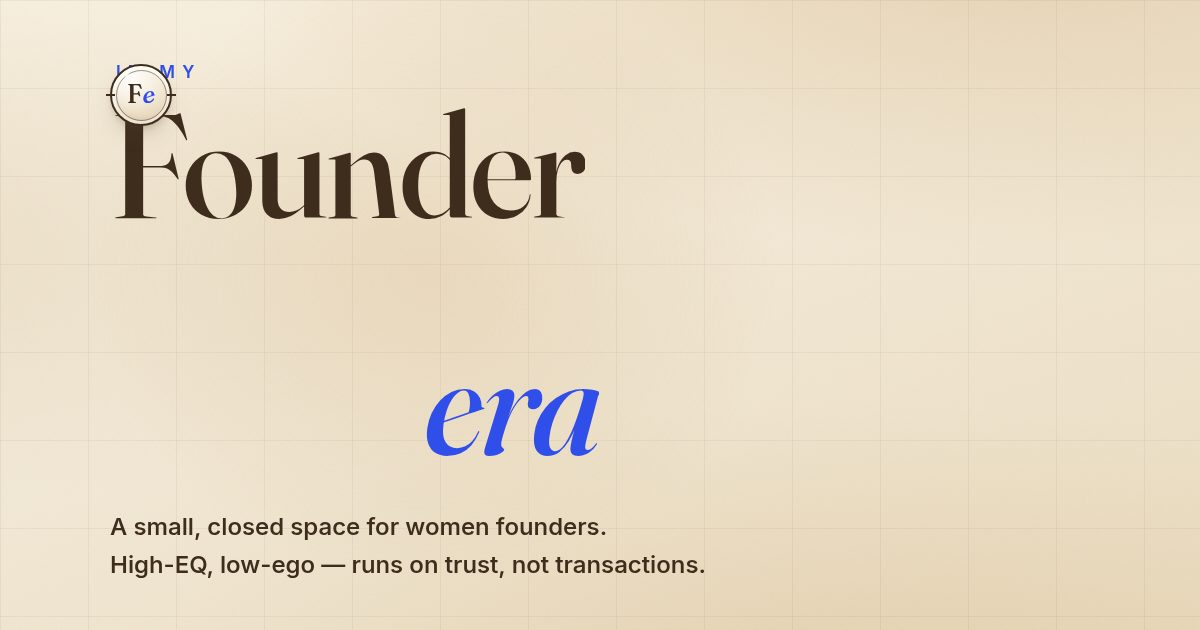
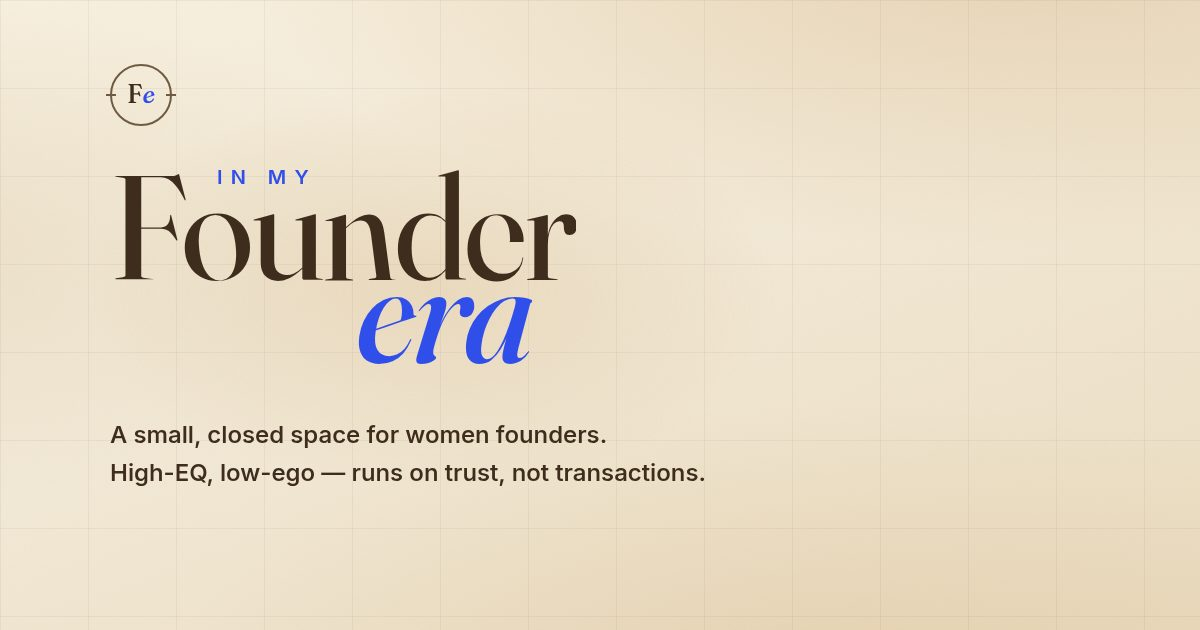
Brand v2: nested IN MY lockup, open single-ring Fe seal, Canela/Söhne type stacks with tuned stand-ins
Claude-Session: https://claude.ai/code/session_01Cy39zSLxnnrD6oEm9QNAfa

Changed region(s): [[0.0925, 0.0905, 0.5858, 0.7841], [0.0925, 0.8143, 0.5858, 0.9349]]

diff --git a/styles.css b/styles.css
@@ -38,8 +38,10 @@
   --cobalt: #304EE9;
   --cobalt-deep: #2440D6;
   --cobalt-soft: rgba(48, 78, 233, 0.14);
-  --serif: 'Fraunces', 'Iowan Old Style', Georgia, serif;
-  --sans: 'Inter', -apple-system, 'Segoe UI', sans-serif;
+  /* Brand type: Canela Display/Italic + Söhne (licensed) — Fraunces/Inter
+     ship as tuned stand-ins and yield automatically if Canela/Söhne load */
+  --serif: 'Canela', 'Canela Deck', 'Fraunces', 'Iowan Old Style', Georgia, serif;
+  --sans: 'Söhne', 'Sohne', 'Inter', -apple-system, 'Segoe UI', sans-serif;
   --radius: 14px;
 }
 
@@ -120,52 +122,19 @@ body.is-done .scene-espresso { opacity: 1; }
   z-index: 10;
   width: 46px;
   height: 46px;
-  border: 1.5px solid var(--espresso);
+  /* open seal: single thin ring on the page itself, per the brand board */
+  border: 1.5px solid #6E5B41;
   border-radius: 50%;
   display: flex;
   align-items: center;
   justify-content: center;
   text-decoration: none;
-  /* enamel-seal finish: warm off-white, raised near the ring, dished center */
-  background:
-    radial-gradient(120% 120% at 32% 24%, rgba(255, 255, 255, 0.85), rgba(255, 255, 255, 0) 50%),
-    linear-gradient(170deg, #F9F3E3 0%, #EAD9BE 100%);
-  box-shadow:
-    0 12px 24px -12px rgba(93, 69, 44, 0.5),
-    0 3px 7px -3px rgba(93, 69, 44, 0.25),
-    inset 0 1px 0 rgba(255, 255, 255, 0.9),
-    inset 0 0 0 3px rgba(255, 253, 246, 0.55),
-    inset 0 -8px 12px -8px rgba(139, 117, 90, 0.5),
-    inset 0 7px 10px -7px rgba(255, 255, 255, 0.9);
-  transition: border-color 1.1s ease, background 1.1s ease, box-shadow 1.1s ease;
+  transition: border-color 1.1s ease;
 }
-/* inner ring — the double-line seal detail */
-.logo::before {
-  content: '';
-  position: absolute;
-  inset: 3.5px;
-  border: 1px solid rgba(62, 45, 29, 0.5);
-  border-radius: 50%;
-  pointer-events: none;
-}
-/* small specular point — pressed, glossy material */
-.logo::after {
-  content: '';
-  position: absolute;
-  top: 6px;
-  left: 10px;
-  width: 9px;
-  height: 6px;
-  border-radius: 50%;
-  transform: rotate(-24deg);
-  background: radial-gradient(closest-side, rgba(255, 255, 255, 1), rgba(255, 255, 255, 0));
-  pointer-events: none;
-}
-body.is-done .logo::after { opacity: 0.35; }
 .logo-fe {
   font-family: var(--serif);
-  font-weight: 500;
-  font-size: 19px;
+  font-weight: 480;
+  font-size: 22px;
   line-height: 1;
 }
 /* registration ticks either side of the seal */
@@ -174,10 +143,10 @@ body.is-done .logo::after { opacity: 0.35; }
   content: '';
   position: absolute;
   top: 50%;
-  width: 9px;
+  width: 10px;
   height: 1.5px;
   margin-top: -0.75px;
-  background: var(--espresso);
+  background: #6E5B41;
   transition: background 1.1s ease;
 }
 .logo-fe::before { left: -6px; }
@@ -191,20 +160,11 @@ body.is-done .logo::after { opacity: 0.35; }
 }
 .fe-f { font-style: normal; color: var(--espresso); }
 .fe-e { font-style: italic; color: var(--cobalt); }
-body.is-done .logo {
-  border-color: rgba(243, 234, 215, 0.7);
-  background:
-    radial-gradient(130% 130% at 30% 20%, rgba(255, 250, 238, 0.16), rgba(255, 255, 255, 0) 52%),
-    linear-gradient(170deg, #4E3A25 0%, #362817 100%);
-  box-shadow:
-    0 10px 22px -12px rgba(0, 0, 0, 0.5),
-    inset 0 1px 0 rgba(255, 250, 238, 0.18);
-}
-body.is-done .logo::before { border-color: rgba(243, 234, 215, 0.35); }
+body.is-done .logo { border-color: rgba(203, 185, 167, 0.8); }
 body.is-done .logo-fe::before,
-body.is-done .logo-fe::after { background: rgba(243, 234, 215, 0.7); }
+body.is-done .logo-fe::after { background: rgba(203, 185, 167, 0.8); }
 body.is-done .fe-f { color: #F3EAD7; }
-body.is-done .fe-e { color: #93A0FF; }
+body.is-done .fe-e { color: #5A73FF; }
 
 /* ——— Layout ———————————————————————————————— */
 .page {
@@ -229,32 +189,36 @@ body.is-done .fe-e { color: #93A0FF; }
   pointer-events: none;
 }
 
-.hero-kicker {
-  font-size: 12px;
-  font-weight: 600;
-  letter-spacing: 0.42em;
-  text-transform: uppercase;
-  color: var(--cobalt);
-  margin-bottom: 6px;
-  padding-left: 6px;
-}
-
 .wordmark {
-  display: inline-block; /* shrinkwrap so "era" can align to Founder's right edge */
+  position: relative;
+  display: inline-block; /* shrinkwrap so "era" can align within Founder's width */
   font-family: var(--serif);
   font-size: clamp(58px, 14.5vw, 96px);
   line-height: 0.98;
   letter-spacing: -0.015em;
-  font-weight: 500;
+  font-weight: 420;
   font-variation-settings: 'opsz' 144;
 }
+/* IN MY nests inside the headline's top zone, after the F — scales with it */
+.wm-kicker {
+  position: absolute;
+  /* offsets are in kicker-ems (kicker = 0.135 of the wordmark size) */
+  top: 0.7em;
+  left: 5.35em;
+  font-family: var(--sans);
+  font-size: 0.135em;
+  font-weight: 600;
+  letter-spacing: 0.42em;
+  text-transform: uppercase;
+  color: var(--cobalt);
+}
 .wm-founder { display: block; }
-/* stacked lockup: era drops below, right-shifted, tucked into Founder's baseline */
+/* era tucks below, right-shifted, riding Founder's baseline */
 .wm-era {
   display: block;
   text-align: right;
-  margin-top: -0.36em;
-  margin-right: -0.1em;
+  margin-top: -0.42em;
+  margin-right: 0.3em;
 }
 .wm-founder,
 .wm-era {
@@ -317,6 +281,7 @@ body.is-done .fe-e { color: #93A0FF; }
     0 14px 32px -20px rgba(93, 69, 44, 0.4),
     inset 0 1px 0 rgba(255, 255, 255, 0.85);
 }
+.slip-text em { font-style: normal; color: var(--cobalt); }
 .slip-text {
   position: absolute;
   top: 4px;
@@ -629,7 +594,7 @@ input:focus {
   font-size: clamp(52px, 13vw, 104px);
   line-height: 1.02;
   letter-spacing: -0.01em;
-  font-weight: 500;
+  font-weight: 420;
   font-variation-settings: 'opsz' 144;
   color: #F6F0E3;
   margin-bottom: clamp(28px, 5vw, 40px);

diff --git a/index.html b/index.html
@@ -39,8 +39,8 @@
     <section class="state state-form" id="stateForm">
 
       <header class="hero">
-        <p class="hero-kicker">In&nbsp;My</p>
         <h1 class="wordmark" aria-label="in my Founder era">
+          <span class="wm-kicker" aria-hidden="true">In&nbsp;My</span>
           <span class="wm-founder">Founder</span><span class="wm-era">era</span>
         </h1>
         <p class="intro">A small, closed space for women founders.</p>
@@ -48,7 +48,7 @@
       </header>
 
       <div class="card-stage">
-      <div class="slip" aria-hidden="true"><span class="slip-text">01 / entry &mdash; private room</span></div>
+      <div class="slip" aria-hidden="true"><span class="slip-text">01 <em>/</em> entry &mdash; private room</span></div>
       <form class="card" id="signupForm" novalidate>
         <p class="card-label" aria-hidden="true">founder era entry</p>
 

diff --git a/README.md b/README.md
@@ -11,7 +11,7 @@ A single-page, sunlit signup form for the Founder Era community. Static HTML/CSS
 | `app.js` | Form logic, city autocomplete, validation, Sheet POST — **paste your endpoint URL here** |
 | `cities.js` | Bundled world-cities list (~4,850 cities, India-first ordering) |
 | `apps-script.gs` | The Google Apps Script backend — paste into script.google.com |
-| `fonts/` | Self-hosted Fraunces + Inter (latin subsets) |
+| `fonts/` | Self-hosted Fraunces + Inter (latin subsets) — stand-ins for the brand fonts (see below) |
 | `og.png` / `favicon.svg` | Social preview image + tab icon |
 
 ## Connect the Google Sheet (one-time, ~5 minutes)
@@ -45,6 +45,10 @@ Any static host works — the whole site is this folder.
 - **Vercel:** [vercel.com/new](https://vercel.com/new) → import this GitHub repo → framework preset "Other" → Deploy.
 - **Netlify:** [app.netlify.com/start](https://app.netlify.com/start) → import this repo → no build command, publish directory `/` → Deploy.
 - **GitHub Pages:** repo Settings → Pages → deploy from branch.
+
+## Brand fonts (Canela + Söhne)
+
+The brand type system is **Canela Display / Canela Italic** (Commercial Type) and **Söhne** (Klim). Both are licensed fonts, so this repo ships free stand-ins: Fraunces (for Canela) and Inter (for Söhne). The CSS font stacks list the real fonts first — if you buy web licenses, drop the `Canela`/`Söhne` woff2 files in `fonts/`, add matching `@font-face` rules at the top of `styles.css`, and the whole site upgrades automatically with no other changes.
 
 ## Regenerating the city list
 
